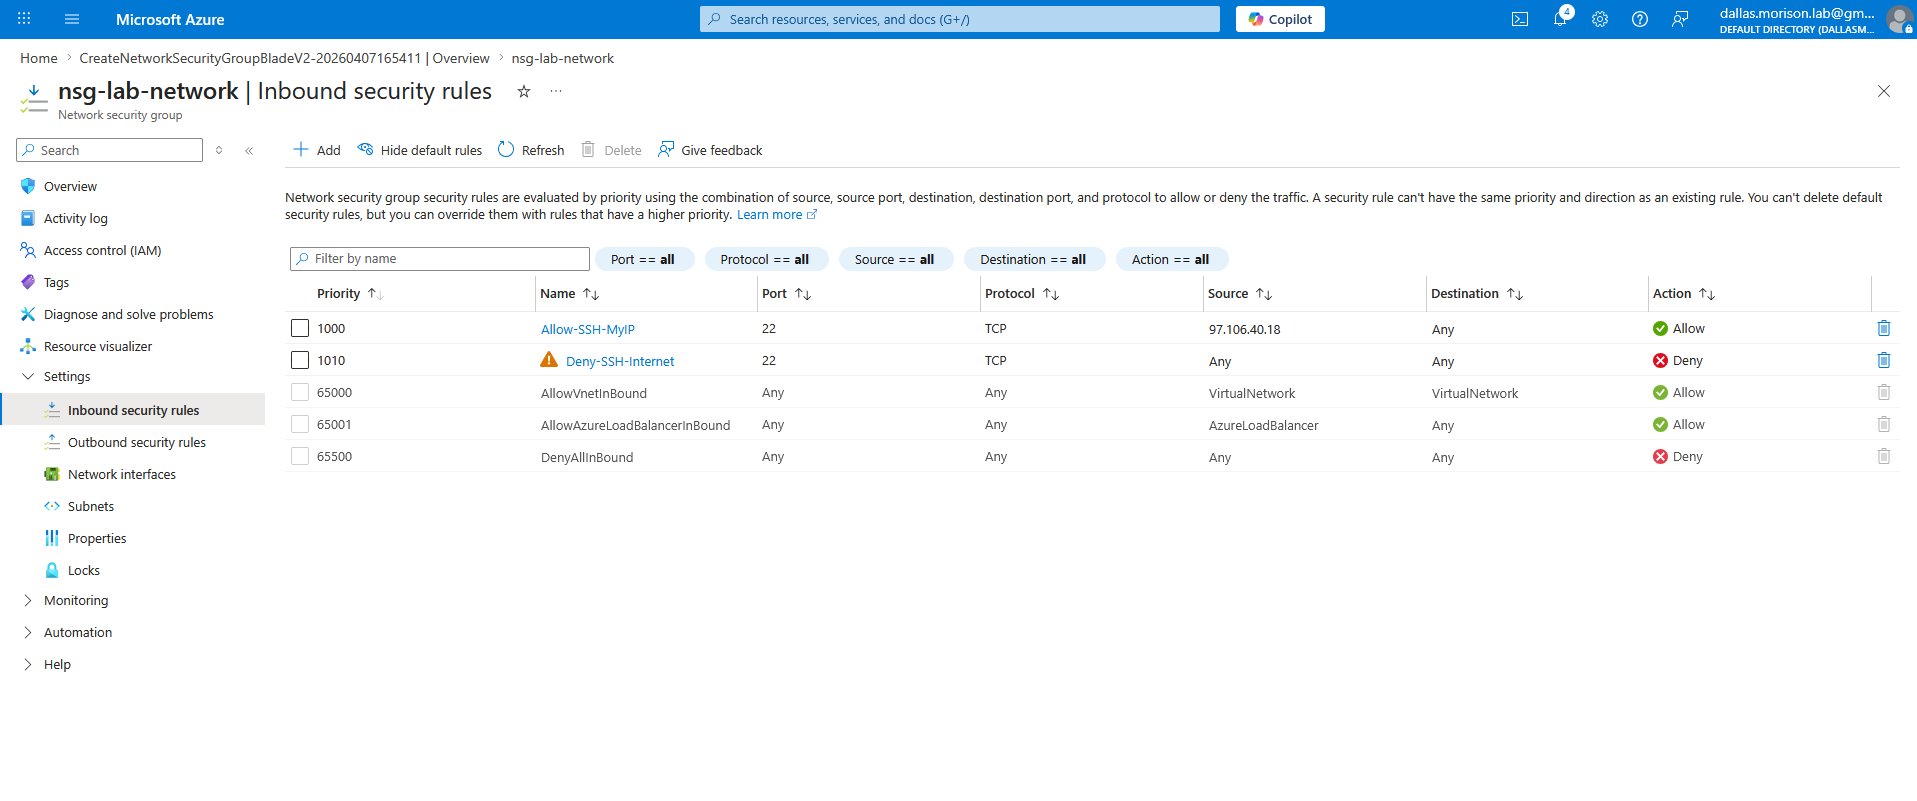
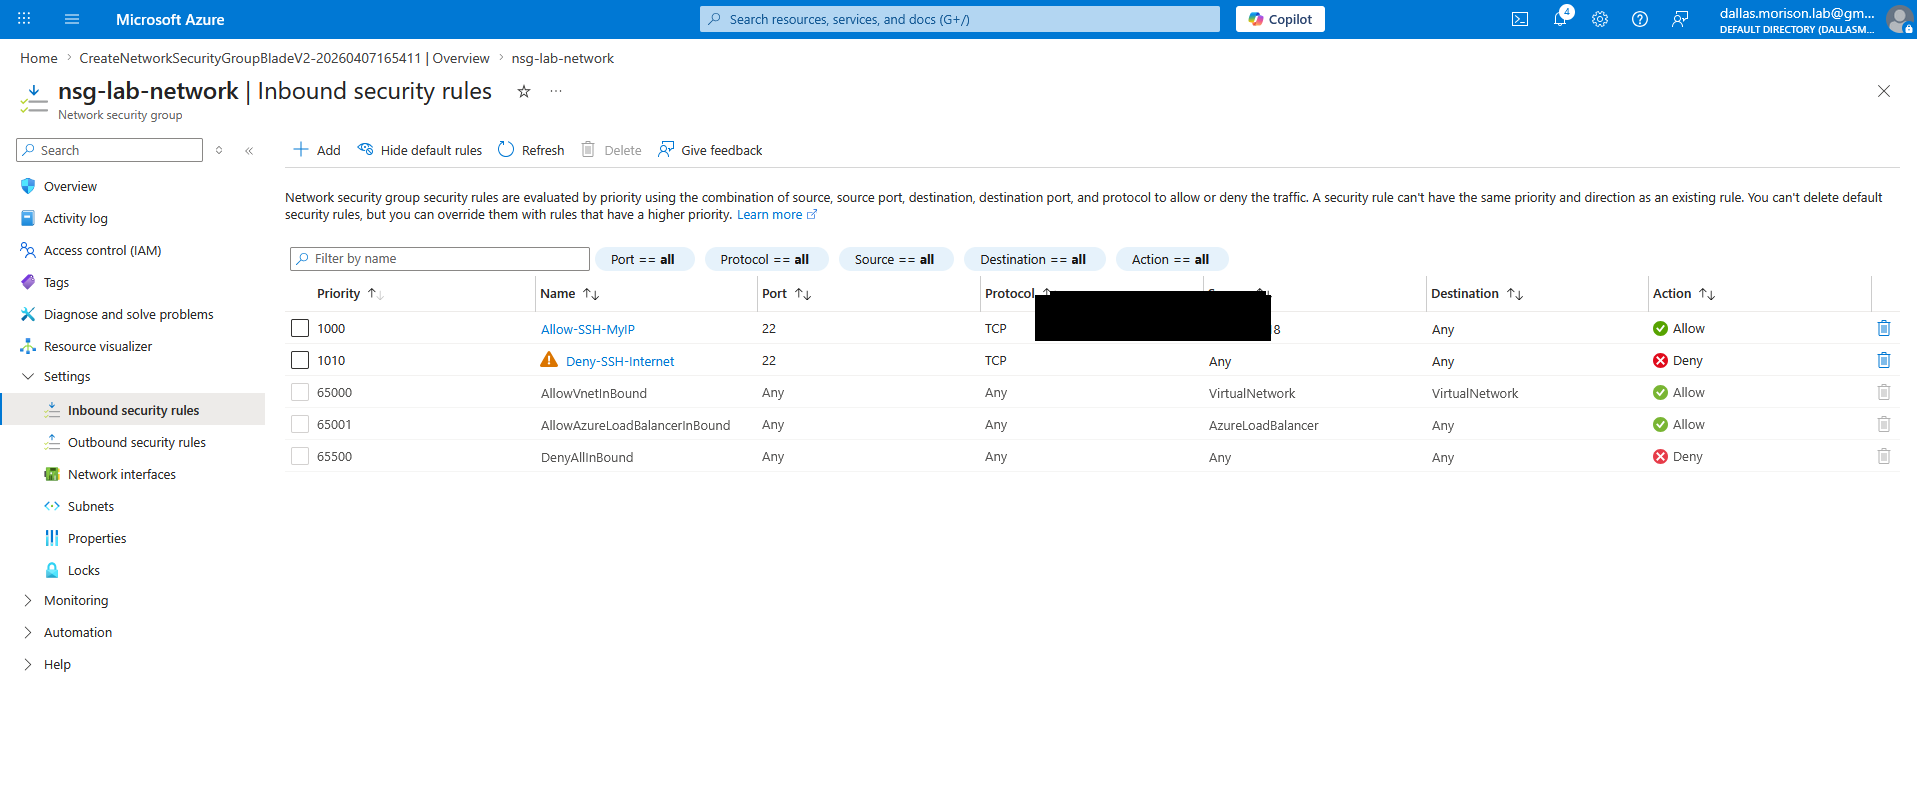
Redact public IPs in Azure Lab 2 screenshots

Changed region(s): [[0.5232, 0.3433, 0.6771, 0.437]]

diff --git a/README.md b/README.md
@@ -99,11 +99,11 @@ Use the files in [images](/home/dallas/projects/azure-lab-2-virtual-network-nsg/
 15. [15-inbound-rules-before-custom.png](/home/dallas/projects/azure-lab-2-virtual-network-nsg/images/15-inbound-rules-before-custom.png)  
     Inbound security rules page before custom SSH rules were added.
 16. [16-add-allow-ssh-myip-sensitive.png](/home/dallas/projects/azure-lab-2-virtual-network-nsg/images/16-add-allow-ssh-myip-sensitive.png)  
-    Allow rule for SSH from the current public IP. `TODO: Redact the source IP before embedding in a public README.`
+    Allow rule for SSH from the current public IP. The repository copy is redacted in place for public-safe publishing.
 17. [17-add-deny-ssh-internet-sensitive.png](/home/dallas/projects/azure-lab-2-virtual-network-nsg/images/17-add-deny-ssh-internet-sensitive.png)  
-    Deny rule for SSH from any other source. `TODO: Redact the visible public IP shown elsewhere on the page before embedding in a public README.`
+    Deny rule for SSH from any other source. The repository copy is redacted in place for public-safe publishing.
 18. [18-inbound-rules-with-custom-rules-sensitive.png](/home/dallas/projects/azure-lab-2-virtual-network-nsg/images/18-inbound-rules-with-custom-rules-sensitive.png)  
-    Inbound rules list showing both custom rules. `TODO: Redact the source IP before embedding in a public README.`
+    Inbound rules list showing both custom rules. The repository copy is redacted in place for public-safe publishing.
 19. [19-nsg-subnet-association-page.png](/home/dallas/projects/azure-lab-2-virtual-network-nsg/images/19-nsg-subnet-association-page.png)  
     NSG subnet association page with `public-subnet` selected.
 20. [20-nsg-attached-to-public-subnet.png](/home/dallas/projects/azure-lab-2-virtual-network-nsg/images/20-nsg-attached-to-public-subnet.png)  
@@ -113,7 +113,7 @@ Use the files in [images](/home/dallas/projects/azure-lab-2-virtual-network-nsg/
 22. [22-final-vnet-subnets-page.png](/home/dallas/projects/azure-lab-2-virtual-network-nsg/images/22-final-vnet-subnets-page.png)  
     Final VNet subnets page showing both `public-subnet` and `private-subnet`.
 23. [23-final-nsg-overview-sensitive.png](/home/dallas/projects/azure-lab-2-virtual-network-nsg/images/23-final-nsg-overview-sensitive.png)  
-    Final NSG overview showing custom inbound rules and subnet association. `TODO: Redact the source IP before embedding in a public README.`
+    Final NSG overview showing custom inbound rules and subnet association. The repository copy is redacted in place for public-safe publishing.
 24. [24-final-nsg-subnets-page.png](/home/dallas/projects/azure-lab-2-virtual-network-nsg/images/24-final-nsg-subnets-page.png)  
     Final NSG subnets page showing only `public-subnet` attached.
 
@@ -127,6 +127,7 @@ Use the files in [images](/home/dallas/projects/azure-lab-2-virtual-network-nsg/
 ## Problems Encountered / Notes
 
 - Several screenshots expose the real public IP used in the SSH allow rule. Those images should be redacted before public portfolio publishing.
+- The repository copies of the public-IP screenshots were redacted in place before publishing.
 - The NSG was associated only with `public-subnet`.
 - `private-subnet` was left unassociated to this NSG by design, which is visible in the final NSG subnets page showing only one attached subnet.
 - `TODO`: If you want to claim end-to-end validation with deployed workloads later, add a follow-up lab that places test resources into each subnet.

diff --git a/LAB_SUMMARY.md b/LAB_SUMMARY.md
@@ -4,4 +4,4 @@
 - Created and configured `nsg-lab-network` with ordered custom inbound SSH rules: `Allow-SSH-MyIP` at priority `1000` and `Deny-SSH-Internet` at priority `1010`.
 - Applied the NSG only to `public-subnet`, leaving `private-subnet` separate by design to support a more restricted internal segment.
 - Documented the full Azure portal workflow with screenshot evidence covering resource creation, subnet design, NSG rule configuration, and final validation views.
-- Identified public-IP exposure in several NSG screenshots and flagged those images for redaction before public publishing.
+- Redacted the public-IP screenshots in place so the published repo is safer to share publicly.
